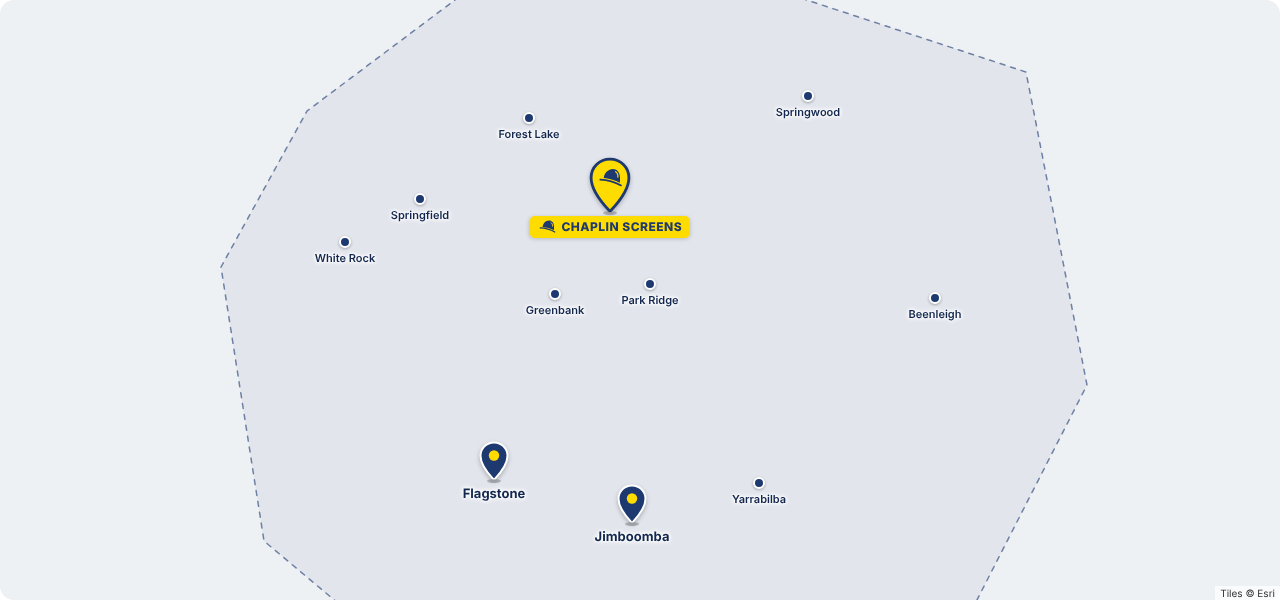
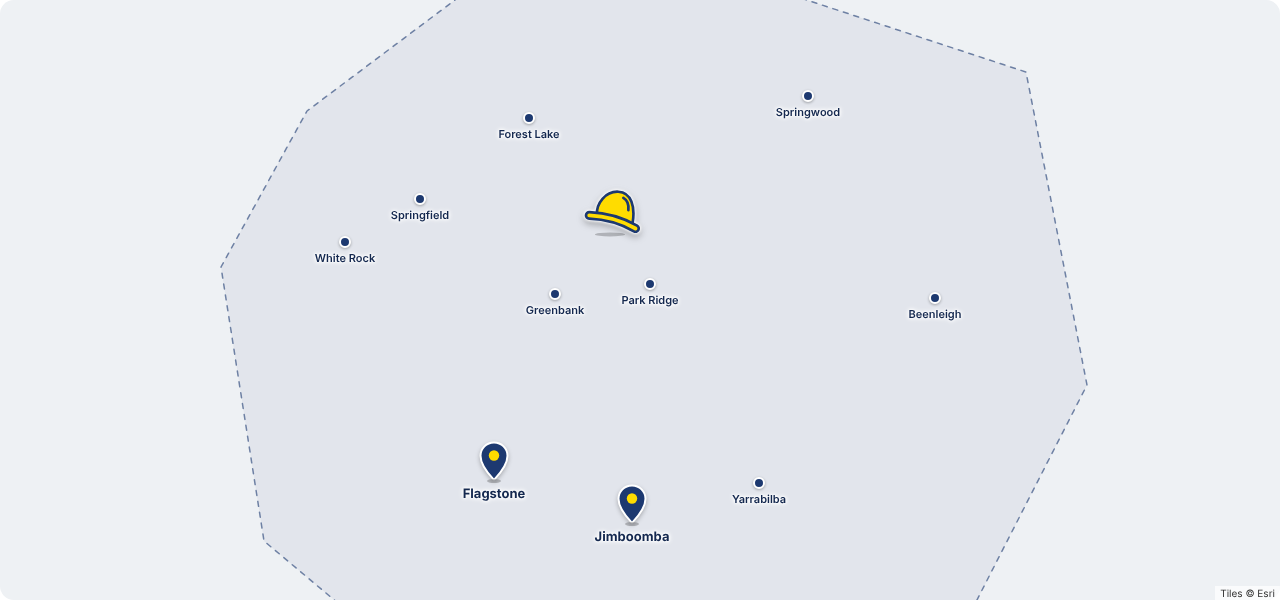
Replace the head office pin and label with the Chaplin hat
The home base is now marked by the bowler hat alone, in yellow with a
blue outline, centred on an approximate spot since the business is home
based. Dot labels stay under their dot, nudging sideways before flipping
above, and the map tries several placement orders so every suburb name
fits from 320px wide up.

Claude-Session: https://claude.ai/code/session_0174eAv1zeVFdJMDRdpbnAXd

Changed region(s): [[0.4062, 0.24, 0.5625, 0.42]]

diff --git a/client-maps/chaplin-screens/service-area-map.html b/client-maps/chaplin-screens/service-area-map.html
@@ -115,28 +115,24 @@
 
   /* Dot labels: smaller, centred under the dot (or above if blocked). */
   .csm-dotwrap .csm-label { font-size: 11px; font-weight: 600; padding: 1px 4px; }
-  .csm-dotwrap .csm-label.at-b { top: calc(100% - 6px); }
-  .csm-dotwrap .csm-label.at-t { bottom: calc(100% - 6px); }
+  .csm-dotwrap .csm-label.at-b,
+  .csm-dotwrap .csm-label.at-br,
+  .csm-dotwrap .csm-label.at-bl { top: calc(100% - 6px); left: 50%; }
+  .csm-dotwrap .csm-label.at-t,
+  .csm-dotwrap .csm-label.at-tr,
+  .csm-dotwrap .csm-label.at-tl { bottom: calc(100% - 6px); left: 50%; }
+  /* Still under (or over) the dot, just nudged sideways to clear a neighbour. */
+  .csm-dotwrap .csm-label.at-br, .csm-dotwrap .csm-label.at-tr { transform: translateX(-22%); }
+  .csm-dotwrap .csm-label.at-bl, .csm-dotwrap .csm-label.at-tl { transform: translateX(-78%); }
 
-  .csm-hq .csm-pin { width: 42px; height: 56px; }
-  .csm-hq .csm-label {
-    --csm-hat-cut: var(--csm-yellow);
-    display: inline-flex;
-    align-items: center;
-    gap: 5px;
-    padding: 3px 8px;
-    background: var(--csm-yellow);
-    color: var(--csm-blue);
-    font-size: 12px;
-    font-weight: 800;
-    letter-spacing: .04em;
-    text-transform: uppercase;
-    text-shadow: none;
-    box-shadow: 0 1px 4px rgba(0, 0, 0, .18);
+  /* Home base: the Chaplin bowler hat, centred on the spot (no pin tip). */
+  .csm-hq { transform: translate(-50%, -55%); }
+  .csm-hq .csm-pin {
+    width: 64px; height: 52px;
+    filter: drop-shadow(0 0 1.5px #fff) drop-shadow(0 0 1.5px #fff) drop-shadow(0 3px 3px rgba(0, 0, 0, .28));
   }
-
-  .csm-hat { width: 1.55em; height: 1.24em; flex: none; margin: -2px 0 -1px; }
-  .csm-hq.is-hot .csm-label { --csm-hat-cut: var(--csm-blue); }
+  .csm-hq .csm-shadow { width: 30px; margin-left: -15px; margin-top: -4px; }
+  .csm-hq:focus-visible { outline: 2px solid var(--csm-blue); outline-offset: 3px; border-radius: 8px; }
 
   /* ---- Hot state (pin or dot hovered/focused) ---- */
   .csm-pinwrap.is-hot .csm-pin svg { animation: csm-hop .55s cubic-bezier(.3, 0, .3, 1) forwards; }
@@ -159,7 +155,7 @@
     100% { transform: translateY(-6px) scale(1, 1); }
   }
 
-  /* ---- Arrival: pins drop in once, rippling out from head office ---- */
+  /* ---- Arrival: pins drop in once, rippling out from the home base ---- */
   .csm.is-pending .csm-pin,
   .csm.is-pending .csm-dot,
   .csm.is-pending .csm-label,
@@ -226,11 +222,9 @@
     .csm-map { border-radius: 10px; }
     .csm-label { font-size: 12px; }
     .csm-pin { width: 26px; height: 35px; }
-    .csm-hq .csm-pin { width: 36px; height: 48px; }
-    .csm-hq .csm-label { font-size: 11px; }
+    .csm-hq .csm-pin { width: 48px; height: 39px; }
   }
   @media (max-width: 400px) {
-    .csm-hq .csm-label { font-size: 10px; letter-spacing: .02em; padding: 2px 6px; }
     .csm-dotwrap .csm-label { font-size: 10px; }
   }
   @media (prefers-reduced-motion: reduce) {
@@ -259,9 +253,9 @@
      ===================================================================== */
   var HEAD_OFFICE = {
     name: 'Chaplin Screens',
-    note: 'Our base, servicing Brisbane’s south, Logan and Ipswich',
-    // Placed from the supplied map image. Swap in the exact address
-    // coordinates (right-click the spot in Google Maps to copy them).
+    note: 'Servicing Brisbane’s south, Logan and Ipswich',
+    // Approximate on purpose: the business is home based, so the hat only
+    // needs to sit in the right area, not on an address.
     lat: -27.672, lng: 153.015,
     url: null
   };
@@ -358,23 +352,17 @@
   fitView(); // must run before markers are added
 
   /* ---- Markers ---- */
-  // Chaplin bowler hat, traced from the brand icon (200 x 160 box). The
-  // "cut" strokes (brim gap and highlight) take the colour behind the hat.
-  function hatPaths(fill, cut) {
+  // Chaplin bowler hat, traced from the brand icon (200 x 160 box), drawn
+  // in yellow with a blue outline. The brim sits in front of the dome.
+  function hatSvg() {
     var brim = 'M26 96C80 98 140 116 182 140';
-    return '<path d="M52 104C46 52 84 14 124 16C168 18 182 66 172 124C132 108 92 102 52 104Z" fill="' + fill + '"/>' +
-      '<path d="M141 37C153 44 160 58 158 78" fill="none" stroke="' + cut + '" stroke-width="9" stroke-linecap="round"/>' +
-      '<path d="' + brim + '" fill="none" stroke="' + cut + '" stroke-width="26" stroke-linecap="round"/>' +
-      '<path d="' + brim + '" fill="none" stroke="' + fill + '" stroke-width="13" stroke-linecap="round"/>';
+    return '<svg viewBox="-12 -2 216 162" aria-hidden="true" focusable="false">' +
+      '<path d="M52 104C46 52 84 14 124 16C168 18 182 66 172 124C132 108 92 102 52 104Z" fill="' + YELLOW + '" stroke="' + BLUE + '" stroke-width="9" stroke-linejoin="round"/>' +
+      '<path d="M141 37C153 44 160 58 158 78" fill="none" stroke="' + BLUE + '" stroke-width="9" stroke-linecap="round"/>' +
+      '<path d="' + brim + '" fill="none" stroke="' + BLUE + '" stroke-width="31" stroke-linecap="round"/>' +
+      '<path d="' + brim + '" fill="none" stroke="' + YELLOW + '" stroke-width="13" stroke-linecap="round"/>' +
+      '</svg>';
   }
-  function hqPinSvg() {
-    return '<svg viewBox="0 0 30 40" aria-hidden="true" focusable="false">' +
-      '<path d="M15 1.5C7.5 1.5 1.5 7.4 1.5 14.8c0 9.6 11.2 21.6 12.6 23.1a1.3 1.3 0 0 0 1.8 0c1.4-1.5 12.6-13.5 12.6-23.1C28.5 7.4 22.5 1.5 15 1.5z" ' +
-      'fill="' + YELLOW + '" stroke="' + BLUE + '" stroke-width="2"/>' +
-      '<g transform="translate(5.6 7) scale(.095)">' + hatPaths(BLUE, YELLOW) + '</g></svg>';
-  }
-  var LABEL_HAT = '<svg class="csm-hat" viewBox="0 0 200 160" aria-hidden="true" focusable="false">' +
-    hatPaths('currentColor', 'var(--csm-hat-cut)') + '</svg>';
 
   function pinSvg(fill, stroke, dot) {
     return '<svg viewBox="0 0 30 40" aria-hidden="true" focusable="false">' +
@@ -394,11 +382,13 @@
     var tag = url ? 'a' : 'span';
     var attrs = url
       ? ' href="' + escapeHtml(url) + '" target="_top" aria-label="' + escapeHtml(item.name) + ' security screens"'
-      : (hq ? ' tabindex="0" role="img" aria-label="' + escapeHtml(item.name) + ' head office"' : ' aria-hidden="true"');
-    var inner = full
-      ? '<span class="csm-pin">' + (hq ? hqPinSvg() : pinSvg(BLUE, '#ffffff', YELLOW)) + '</span>' +
+      : (hq ? ' tabindex="0" role="img" aria-label="' + escapeHtml(item.name) + ' home base"' : ' aria-hidden="true"');
+    var inner = hq
+      ? '<span class="csm-pin">' + hatSvg() + '</span><span class="csm-shadow"></span>'
+      : full
+      ? '<span class="csm-pin">' + pinSvg(BLUE, '#ffffff', YELLOW) + '</span>' +
         '<span class="csm-shadow"></span>' +
-        '<span class="csm-label at-b">' + (hq ? LABEL_HAT : '') + escapeHtml(item.name) + '</span>'
+        '<span class="csm-label at-b">' + escapeHtml(item.name) + '</span>'
       : '<span class="csm-dot"></span>' +
         '<span class="csm-label at-b">' + escapeHtml(item.name) + '</span>';
     var html = '<' + tag + ' class="csm-pinwrap' + (hq ? ' csm-hq' : '') + (full ? '' : ' csm-dotwrap') + '"' + attrs + '>' +
@@ -462,7 +452,7 @@
     var item = entry.item;
     var body;
     if (entry.kind === 'hq') {
-      body = '<span class="csm-card-eyebrow">Head office</span>' +
+      body = '<span class="csm-card-eyebrow">Home base</span>' +
              '<span class="csm-card-name">' + escapeHtml(item.name) + '</span>' +
              (item.note ? '<span class="csm-card-note">' + escapeHtml(item.note) + '</span>' : '');
     } else if (entry.url) {
@@ -482,7 +472,9 @@
     var pt = map.latLngToContainerPoint([item.lat, item.lng]);
     var stageW = mapEl.clientWidth;
     var w = cardEl.offsetWidth, h = cardEl.offsetHeight;
-    var markHeight = isDot ? 10 : entry.wrap.querySelector('.csm-pin').offsetHeight + 8;
+    var pinH = isDot ? 0 : entry.wrap.querySelector('.csm-pin').offsetHeight;
+    // Pins stand on the point; the hat is centred on it.
+    var markHeight = isDot ? 10 : (entry.kind === 'hq' ? pinH * 0.55 + 4 : pinH + 8);
     var x = Math.max(8, Math.min(pt.x - w / 2, stageW - w - 8));
     var y = pt.y - markHeight - h - 10;
     if (y < 8) {
@@ -496,16 +488,18 @@
   }
 
   /* ---- Label placement ----
-     Suburb pin labels try below, right, left, then above; dot labels go
-     below the dot, or above it if below is blocked. Each label takes
-     the first spot clear of other pins, labels and the map edge.
-     If none is clear it hides until its pin is hovered. */
+     Suburb pin labels try below, right, left, then above. Dot labels go
+     under the dot (centred, then nudged right or left), and only above it
+     if every spot below is blocked. Each label takes
+     the first spot clear of other markers, labels and the map edge.
+     If none is clear it hides until its marker is hovered or tapped. */
   var SPOTS = ['at-b', 'at-r', 'at-l', 'at-t'];
-  var DOT_SPOTS = ['at-b', 'at-t'];
+  var DOT_SPOTS = ['at-b', 'at-br', 'at-bl', 'at-t', 'at-tr', 'at-tl'];
+  var ALL_SPOTS = SPOTS.concat(DOT_SPOTS);
   function overlaps(a, b, pad) {
     return !(a.right + pad <= b.left || b.right + pad <= a.left || a.bottom + pad <= b.top || b.bottom + pad <= a.top);
   }
-  function layoutWith(hqSpot) {
+  function layoutInOrder(order) {
     var frame = mapEl.getBoundingClientRect();
     var shown = 0;
     // Marker boxes (not the animated pin) so this works mid-animation.
@@ -515,40 +509,45 @@
              r.top >= frame.top + 2 && r.bottom <= frame.bottom - 16 &&
              !taken.some(function (t) { return t.owner !== owner && overlaps(r, t.r, 2); });
     }
-    entries
-      .filter(function (e) { return e.label; })
-      .sort(function (a, b) { return a.priority - b.priority; })
-      .forEach(function (e) {
-        var spots = e.wrap.classList.contains('csm-dotwrap') ? DOT_SPOTS
-          : (e.kind === 'hq' ? [hqSpot] : SPOTS);
+    order.forEach(function (e) {
+        var spots = e.wrap.classList.contains('csm-dotwrap') ? DOT_SPOTS : SPOTS;
         var placed = null;
         for (var i = 0; i < spots.length && !placed; i++) {
-          SPOTS.forEach(function (c) { e.label.classList.remove(c); });
+          ALL_SPOTS.forEach(function (c) { e.label.classList.remove(c); });
           e.label.classList.add(spots[i]);
           var r = e.label.getBoundingClientRect();
           if (fits(r, e)) placed = r;
         }
         if (!placed) {
-          SPOTS.forEach(function (c) { e.label.classList.remove(c); });
+          ALL_SPOTS.forEach(function (c) { e.label.classList.remove(c); });
           e.label.classList.add(spots[0]);
         }
-        var keep = placed || e.priority === 0;
-        e.label.classList.toggle('is-hidden', !keep);
-        if (keep) taken.push({ r: placed || e.label.getBoundingClientRect(), owner: null });
-        if (placed) shown++;
+        e.label.classList.toggle('is-hidden', !placed);
+        if (placed) { taken.push({ r: placed, owner: null }); shown++; }
       });
     return shown;
   }
-  // The head office label is placed first, so its side decides how much
-  // room the suburbs around it get. Try each side and keep the one that
-  // leaves the most labels on show (ties go to the earlier side).
+  // Which label claims a spot first decides who gets squeezed out, so try
+  // a few orders (linked pins always first) and keep the one that shows
+  // the most names. Ties go to the earlier order.
   function placeLabels() {
-    var best = SPOTS[0], bestShown = -1;
-    SPOTS.forEach(function (spot) {
-      var shown = layoutWith(spot);
-      if (shown > bestShown) { best = spot; bestShown = shown; }
+    var labelled = entries.filter(function (e) { return e.label; });
+    function by(fn) {
+      return labelled.slice().sort(function (a, b) { return (a.priority - b.priority) || fn(a, b); });
+    }
+    var orders = [
+      by(function () { return 0; }),
+      by(function (a, b) { return b.item.lat - a.item.lat; }),   // north first
+      by(function (a, b) { return a.item.lat - b.item.lat; }),   // south first
+      by(function (a, b) { return a.item.lng - b.item.lng; }),   // west first
+      by(function (a, b) { return b.item.lng - a.item.lng; })    // east first
+    ];
+    var best = 0, bestShown = -1;
+    orders.forEach(function (order, i) {
+      var shown = layoutInOrder(order);
+      if (shown > bestShown) { best = i; bestShown = shown; }
     });
-    if (best !== SPOTS[SPOTS.length - 1]) layoutWith(best);
+    if (best !== orders.length - 1) layoutInOrder(orders[best]);
   }
   placeLabels();
 

diff --git a/client-maps/chaplin-screens/README.md b/client-maps/chaplin-screens/README.md
@@ -12,7 +12,7 @@ Interactive Leaflet map for chaplinscreens.com.au. One file: `service-area-map.h
 All settings are in the `EDIT HERE` block at the top of the script:
 
 - `SUBURBS[].url`: the suburb's service-area page, e.g. `https://www.chaplinscreens.com.au/<suburb>-security-screens/`. With a URL the suburb gets a full pin and a link. Left `null` it shows as a small blue dot with a smaller label beside it.
-- `HEAD_OFFICE.lat/lng`: placed from the supplied image. Replace with the real address coordinates. `HEAD_OFFICE.note` is the line in its hover card.
+- `HEAD_OFFICE.lat/lng`: where the hat sits. Approximate on purpose (home based). `HEAD_OFFICE.note` is the line in its hover card.
 - `SERVICE_AREA`: the dashed boundary.
 
 ## How it behaves
@@ -21,6 +21,6 @@ All settings are in the `EDIT HERE` block at the top of the script:
 - **Hover card.** Hovering or focusing a pin or dot shows a card above it; pins hop once and stay raised.
 - **Touch.** Tapping a pin shows the hop, then opens the page. Tapping a dot shows its card for a few seconds.
 - **Arrival.** Pins drop in once when the map scrolls into view, rippling out from head office. Skipped under `prefers-reduced-motion`.
-- **Labels.** Dot names sit under the dot, or above it when below is blocked. Pin labels prefer below. The head office label takes whichever side leaves the most suburb names visible. On a 320px-wide phone the four tightest suburbs show their names on tap instead.
-- **Head office.** Yellow pin and label carry the Chaplin bowler hat, traced as an inline SVG (`hatPaths` in the script), so there is no image file to host.
+- **Labels.** Dot names sit under the dot, nudged left or right if a neighbour is in the way, and only go above when every spot below is blocked. The map tries a few placement orders and keeps the one that shows the most names, so all names fit at every width tested (320px up).
+- **Home base.** The Chaplin bowler hat (yellow, blue outline) marks where they're based, in place of a pin and label. It's traced as inline SVG (`hatSvg` in the script), so there's no image file to host. Its position is deliberately approximate, as the business is home based.
 - Tiles: Esri's keyless light-grey base, without labels. Leaflet 1.9.4 from unpkg with SRI hashes.
